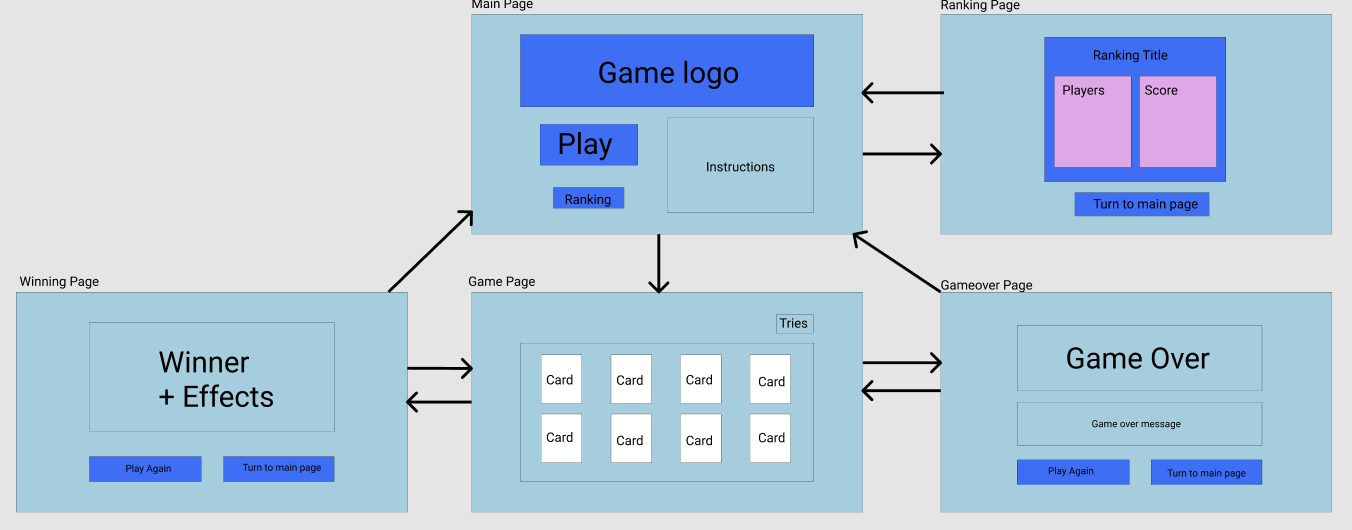
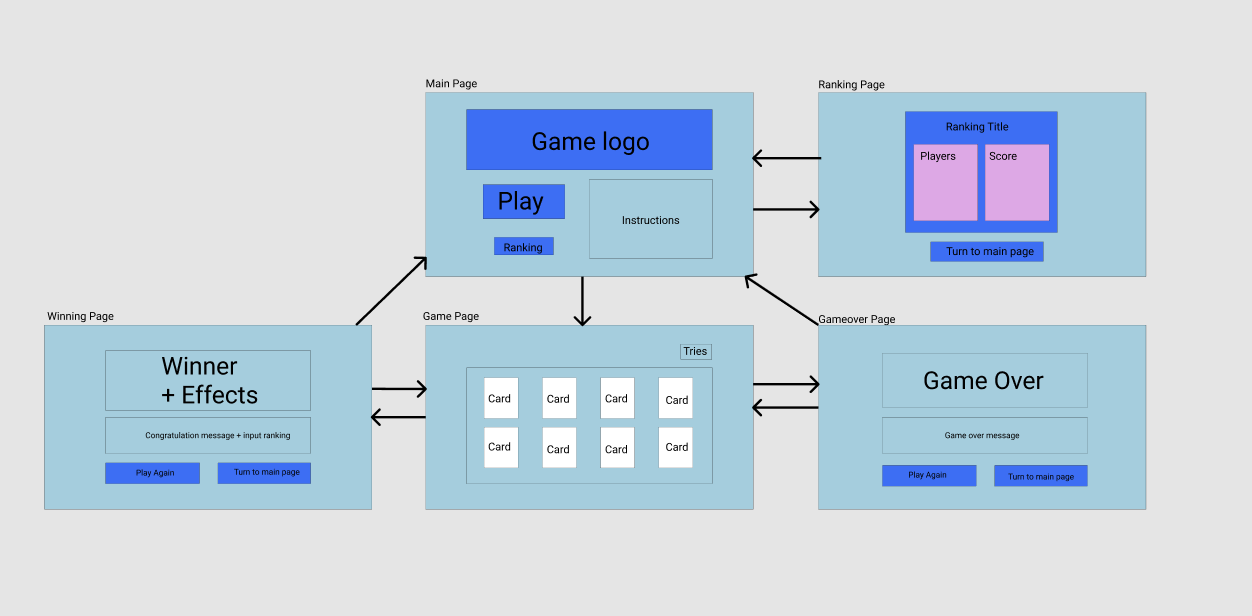
añadido boton form

diff --git a/winner.php b/winner.php
@@ -10,6 +10,13 @@
 		<div class="winner">
 			<h1>YOU WON!</h1>
 		</div>
+		<div class="player-input-row">
+			<form method="POST" action="index.php">
+				<input id="playerName" type="text" placeholder="Your player name">
+				<input type="submit" value="Main menu">
+				<input type="submit" value="Play Again" formaction="game.php">
+			</form>
+		</div>
 		<div class="bottom-row">
 			<div class="bottom-left">
 				<button id="playAgain" class="btn btn-primary">Play again</button>
